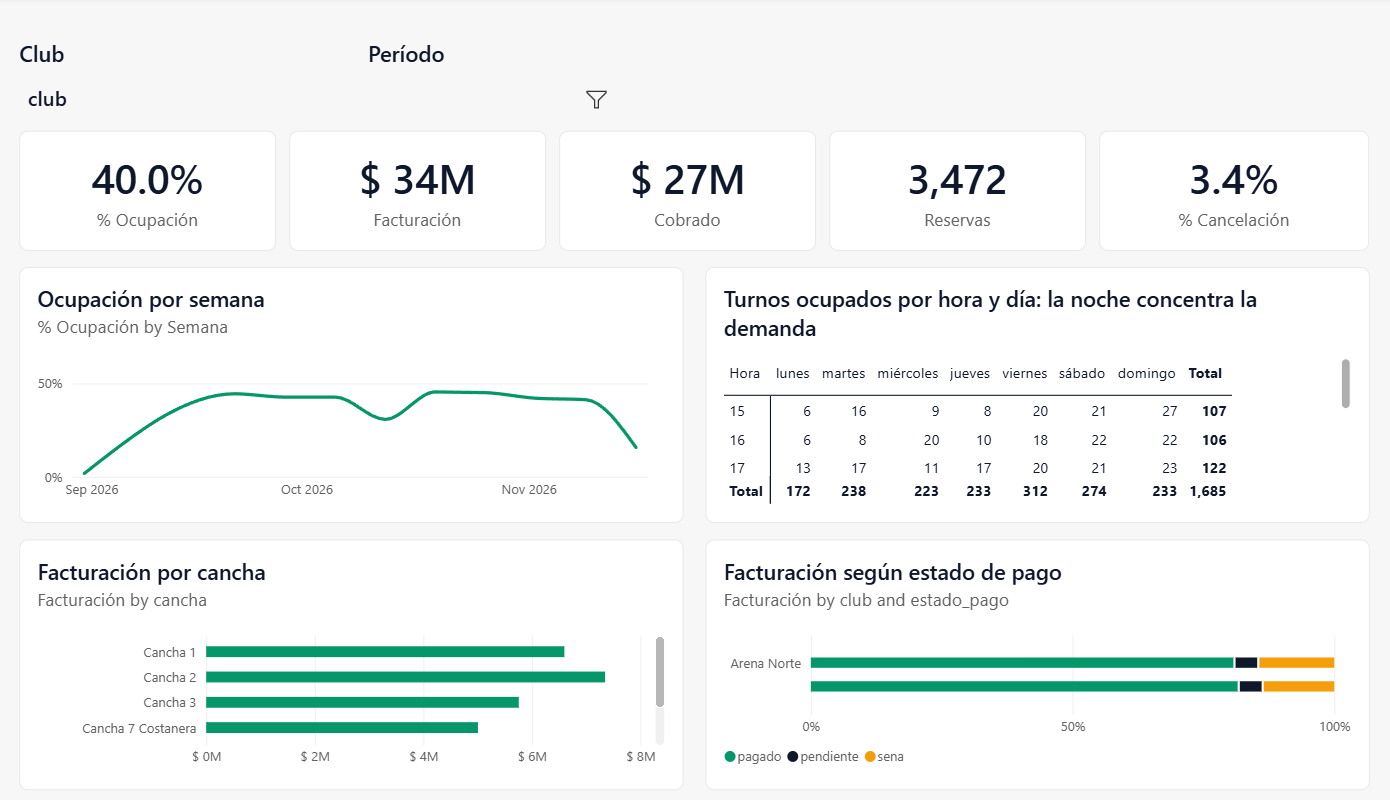
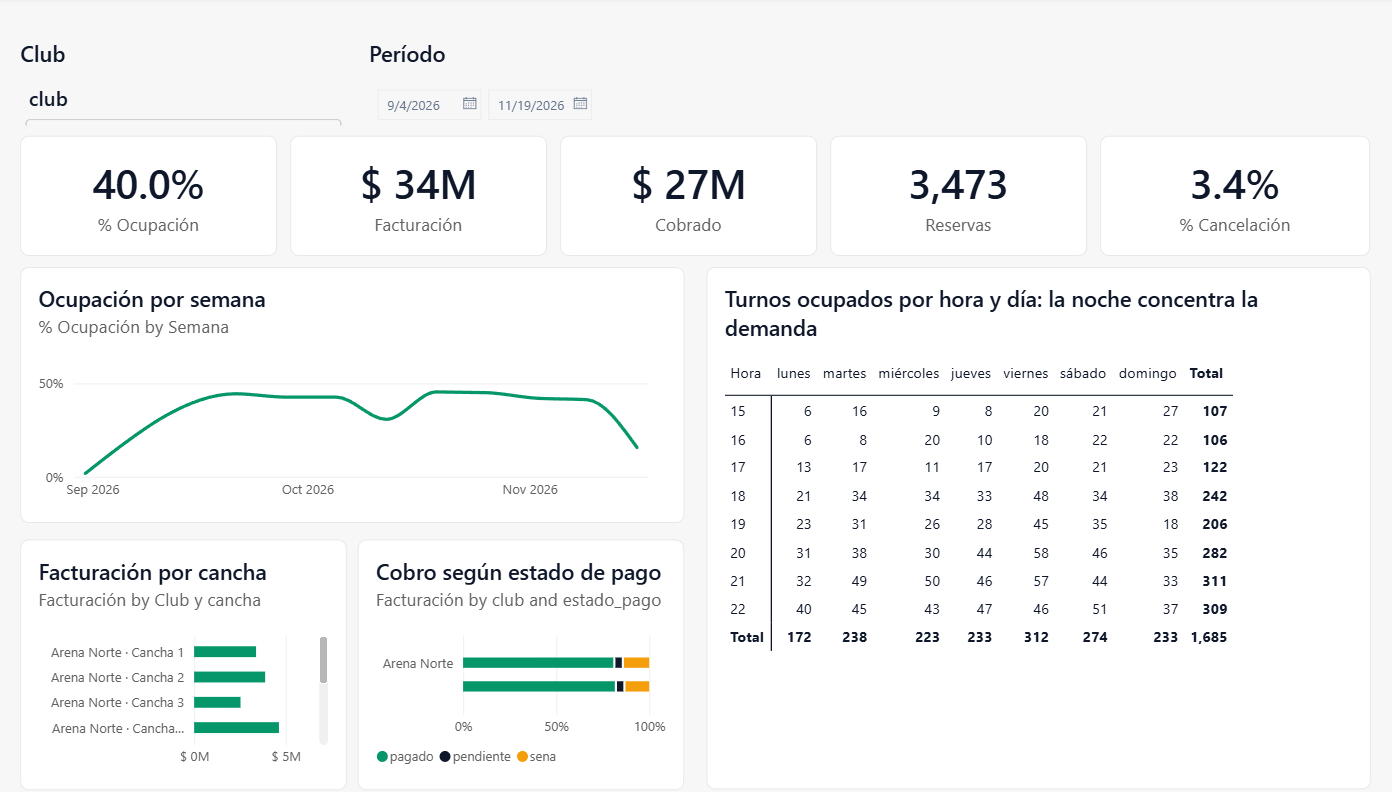
Agregar las capturas del tablero de Power BI con los datos actualizados

diff --git a/docs/powerbi/README.md b/docs/powerbi/README.md
@@ -2,6 +2,14 @@
 
 Tablero con los indicadores del sistema, armado sobre la base MySQL de F5GOL. Cumple el requisito de la cátedra: **extracción de datos desde MySQL, modelado básico, KPIs y diseño del dashboard**.
 
+## Cómo queda
+
+Datos de la base de demo (`migrate:fresh --seed`, con 8 semanas de historial).
+
+![Página 1: resumen del club](captura-resumen.png)
+
+![Página 2: jugadores y matchmaking](captura-jugadores.png)
+
 ## Qué preguntas responde
 
 | Pregunta del dueño del club | Indicador |
